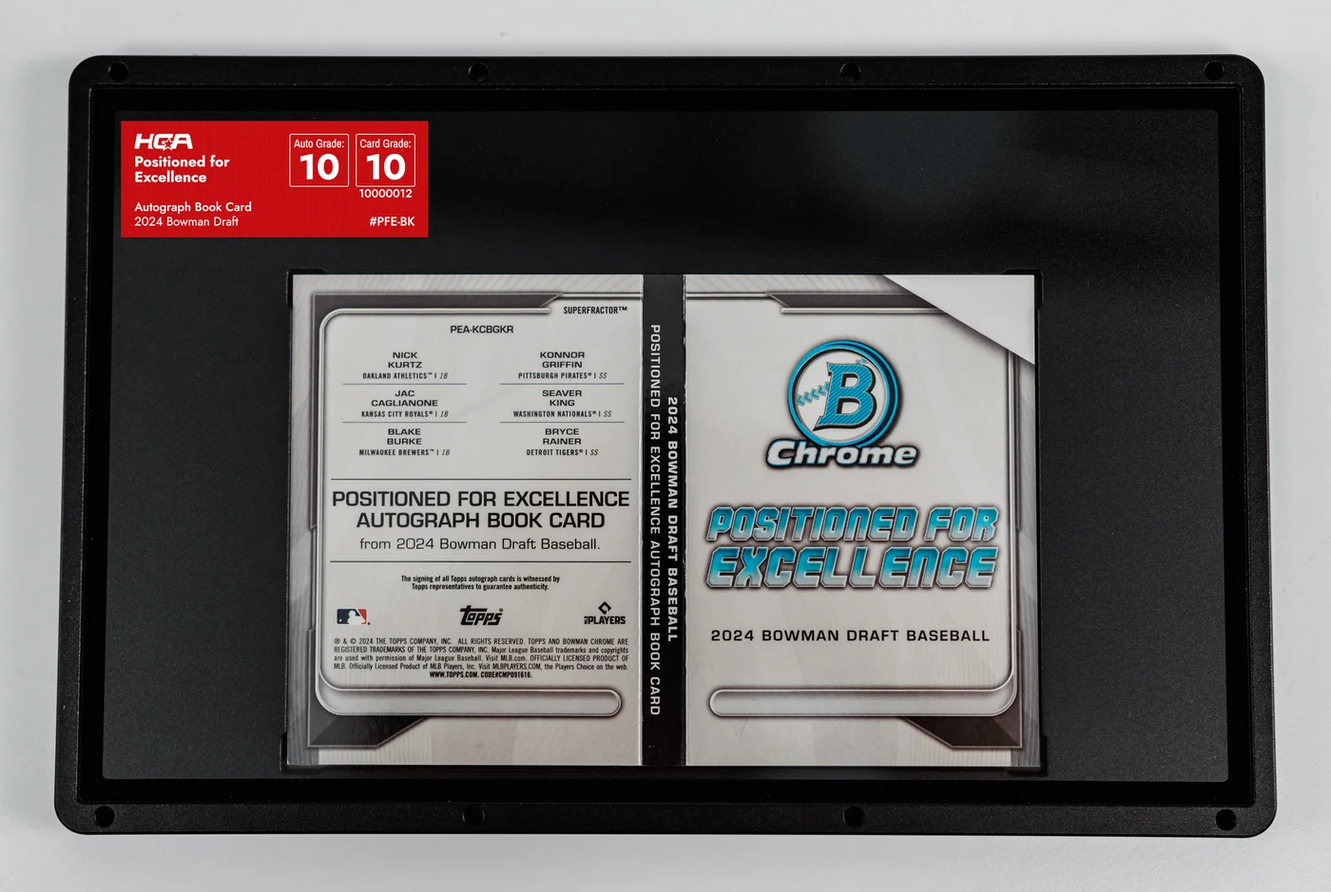
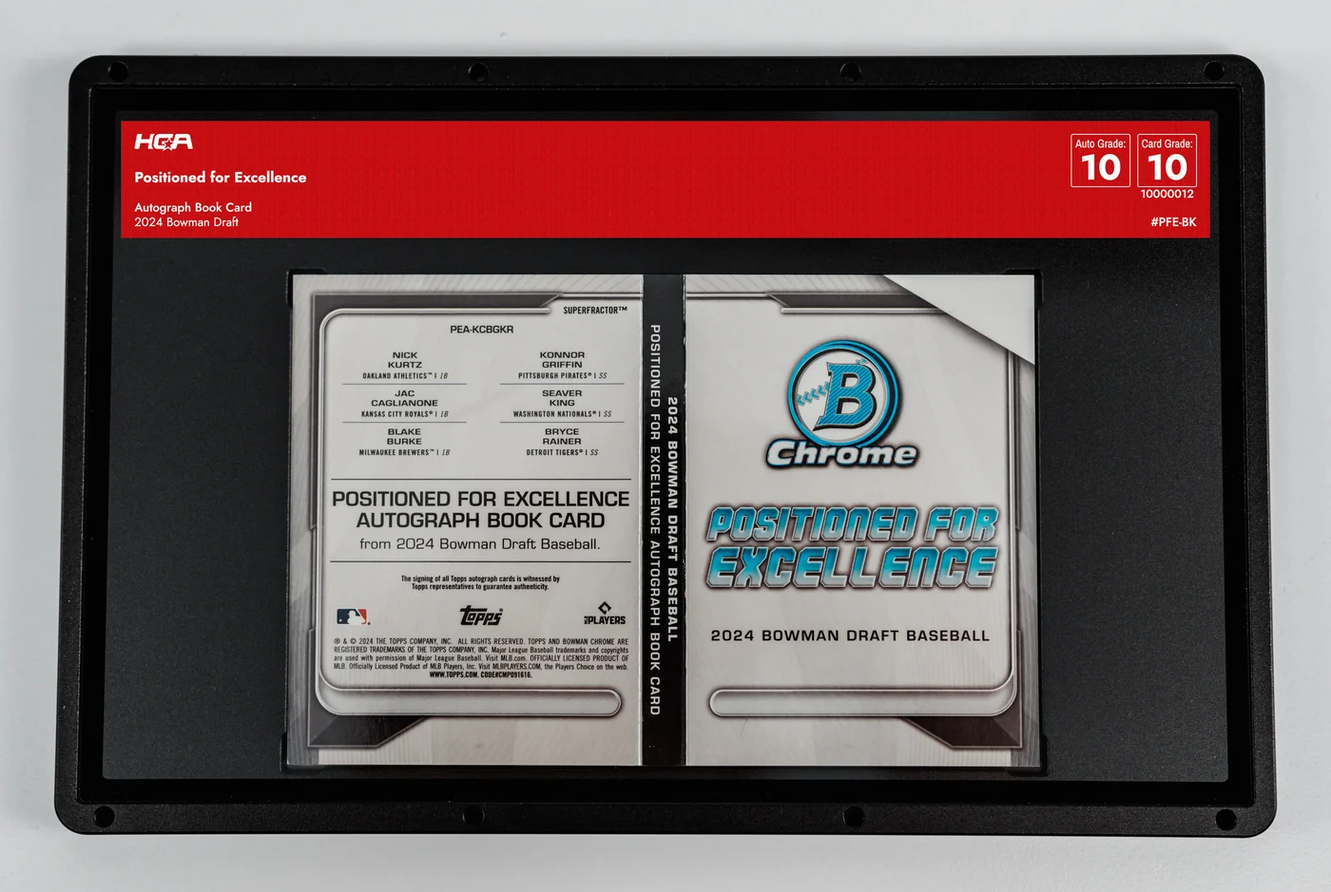
HGA product gallery: labels span the whole bay on every housing

Changed region(s): [[0.0921, 0.1235, 0.9214, 0.278]]

diff --git a/hga-site/h/shop-a.html b/hga-site/h/shop-a.html
@@ -128,7 +128,7 @@
           </div>
         </div>
         <figure class="sh-photo" data-photo hidden><img src="" alt="" width="720" height="1207"><video playsinline controls preload="none" hidden></video></figure>
-        <div class="sh-thumbs" role="group" aria-label="Product images"><button type="button" class="sh-th on" data-g="3d" data-kind="3d" aria-label="3D view: The slab in 3D. Drag to spin it." aria-pressed="true"><img src="./slabs/ohtani/360.webp" alt="" loading="lazy" width="72" height="72"><span class="sh-th-badge">360°</span></button><button type="button" class="sh-th" data-g="sizes" data-kind="image" data-src="./assets/photo/sizes-lineup.webp?v=08e3dc46" data-alt="Any card, any size: HGA Glass for standard, booklet, trifold and oversized cards" aria-label="All sizes: Any card, any size: HGA Glass for standard, booklet, trifold and oversized cards" aria-pressed="false"><img src="./assets/photo/sizes-lineup.webp?v=08e3dc46" alt="" loading="lazy" width="72" height="72"><span class="sh-th-badge">Sizes</span></button><button type="button" class="sh-th" data-g="standard" data-kind="image" data-src="./assets/photo/casing-standard.webp?v=f19f3479" data-alt="A standard card in HGA Glass" aria-label="Standard: A standard card in HGA Glass" aria-pressed="false"><img src="./assets/photo/casing-standard.webp?v=f19f3479" alt="" loading="lazy" width="72" height="72"></button><button type="button" class="sh-th" data-g="booklet" data-kind="image" data-src="./assets/photo/casing-booklet.webp?v=3142f45d" data-alt="A booklet card in HGA Glass" aria-label="Booklet: A booklet card in HGA Glass" aria-pressed="false"><img src="./assets/photo/casing-booklet.webp?v=3142f45d" alt="" loading="lazy" width="72" height="72"></button><button type="button" class="sh-th" data-g="trifold" data-kind="image" data-src="./assets/photo/casing-trifold.webp?v=c5311a39" data-alt="A trifold booklet in HGA Glass" aria-label="Trifold: A trifold booklet in HGA Glass" aria-pressed="false"><img src="./assets/photo/casing-trifold.webp?v=c5311a39" alt="" loading="lazy" width="72" height="72"></button><button type="button" class="sh-th" data-g="oversized" data-kind="image" data-src="./assets/photo/casing-oversized.webp?v=ed156623" data-alt="The oversized HGA Glass housing" aria-label="Oversized: The oversized HGA Glass housing" aria-pressed="false"><img src="./assets/photo/casing-oversized.webp?v=ed156623" alt="" loading="lazy" width="72" height="72"></button><button type="button" class="sh-th" data-g="poly" data-kind="image" data-src="./slabs/items/13966/clear_case/720.webp" data-alt="A standard card in HGA Poly" aria-label="Poly: A standard card in HGA Poly" aria-pressed="false"><img src="./slabs/items/13966/clear_case/720.webp" alt="" loading="lazy" width="72" height="72"></button></div>
+        <div class="sh-thumbs" role="group" aria-label="Product images"><button type="button" class="sh-th on" data-g="3d" data-kind="3d" aria-label="3D view: The slab in 3D. Drag to spin it." aria-pressed="true"><img src="./slabs/ohtani/360.webp" alt="" loading="lazy" width="72" height="72"><span class="sh-th-badge">360°</span></button><button type="button" class="sh-th" data-g="sizes" data-kind="image" data-src="./assets/photo/sizes-lineup.webp?v=08e3dc46" data-alt="Any card, any size: HGA Glass for standard, booklet, trifold and oversized cards" aria-label="All sizes: Any card, any size: HGA Glass for standard, booklet, trifold and oversized cards" aria-pressed="false"><img src="./assets/photo/sizes-lineup.webp?v=08e3dc46" alt="" loading="lazy" width="72" height="72"><span class="sh-th-badge">Sizes</span></button><button type="button" class="sh-th" data-g="standard" data-kind="image" data-src="./assets/photo/casing-standard.webp?v=841a0df5" data-alt="A standard card in HGA Glass" aria-label="Standard: A standard card in HGA Glass" aria-pressed="false"><img src="./assets/photo/casing-standard.webp?v=841a0df5" alt="" loading="lazy" width="72" height="72"></button><button type="button" class="sh-th" data-g="booklet" data-kind="image" data-src="./assets/photo/casing-booklet.webp?v=6119ba0e" data-alt="A booklet card in HGA Glass" aria-label="Booklet: A booklet card in HGA Glass" aria-pressed="false"><img src="./assets/photo/casing-booklet.webp?v=6119ba0e" alt="" loading="lazy" width="72" height="72"></button><button type="button" class="sh-th" data-g="trifold" data-kind="image" data-src="./assets/photo/casing-trifold.webp?v=7de9c197" data-alt="A trifold booklet in HGA Glass" aria-label="Trifold: A trifold booklet in HGA Glass" aria-pressed="false"><img src="./assets/photo/casing-trifold.webp?v=7de9c197" alt="" loading="lazy" width="72" height="72"></button><button type="button" class="sh-th" data-g="oversized" data-kind="image" data-src="./assets/photo/casing-oversized.webp?v=e52f296b" data-alt="The oversized HGA Glass housing" aria-label="Oversized: The oversized HGA Glass housing" aria-pressed="false"><img src="./assets/photo/casing-oversized.webp?v=e52f296b" alt="" loading="lazy" width="72" height="72"></button><button type="button" class="sh-th" data-g="poly" data-kind="image" data-src="./slabs/items/13966/clear_case/720.webp" data-alt="A standard card in HGA Poly" aria-label="Poly: A standard card in HGA Poly" aria-pressed="false"><img src="./slabs/items/13966/clear_case/720.webp" alt="" loading="lazy" width="72" height="72"></button></div>
         <ul class="sh-proof" aria-label="What you get">
           <li><svg class="ico"><use href="#i-eye"/></svg>From your box to your grade reveal</li>
           <li><svg class="ico"><use href="#i-clock"/></svg>Live in your portal, from delivery to the Reveal</li>

diff --git a/hga-site/h/shop-b.html b/hga-site/h/shop-b.html
@@ -128,7 +128,7 @@
           </div>
         </div>
         <figure class="sh-photo" data-photo hidden><img src="" alt="" width="720" height="1207"><video playsinline controls preload="none" hidden></video></figure>
-        <div class="sh-thumbs" role="group" aria-label="Product images"><button type="button" class="sh-th on" data-g="3d" data-kind="3d" aria-label="3D view: The slab in 3D. Drag to spin it." aria-pressed="true"><img src="./slabs/ohtani/360.webp" alt="" loading="lazy" width="72" height="72"><span class="sh-th-badge">360°</span></button><button type="button" class="sh-th" data-g="sizes" data-kind="image" data-src="./assets/photo/sizes-lineup.webp?v=08e3dc46" data-alt="Any card, any size: HGA Glass for standard, booklet, trifold and oversized cards" aria-label="All sizes: Any card, any size: HGA Glass for standard, booklet, trifold and oversized cards" aria-pressed="false"><img src="./assets/photo/sizes-lineup.webp?v=08e3dc46" alt="" loading="lazy" width="72" height="72"><span class="sh-th-badge">Sizes</span></button><button type="button" class="sh-th" data-g="standard" data-kind="image" data-src="./assets/photo/casing-standard.webp?v=f19f3479" data-alt="A standard card in HGA Glass" aria-label="Standard: A standard card in HGA Glass" aria-pressed="false"><img src="./assets/photo/casing-standard.webp?v=f19f3479" alt="" loading="lazy" width="72" height="72"></button><button type="button" class="sh-th" data-g="booklet" data-kind="image" data-src="./assets/photo/casing-booklet.webp?v=3142f45d" data-alt="A booklet card in HGA Glass" aria-label="Booklet: A booklet card in HGA Glass" aria-pressed="false"><img src="./assets/photo/casing-booklet.webp?v=3142f45d" alt="" loading="lazy" width="72" height="72"></button><button type="button" class="sh-th" data-g="trifold" data-kind="image" data-src="./assets/photo/casing-trifold.webp?v=c5311a39" data-alt="A trifold booklet in HGA Glass" aria-label="Trifold: A trifold booklet in HGA Glass" aria-pressed="false"><img src="./assets/photo/casing-trifold.webp?v=c5311a39" alt="" loading="lazy" width="72" height="72"></button><button type="button" class="sh-th" data-g="oversized" data-kind="image" data-src="./assets/photo/casing-oversized.webp?v=ed156623" data-alt="The oversized HGA Glass housing" aria-label="Oversized: The oversized HGA Glass housing" aria-pressed="false"><img src="./assets/photo/casing-oversized.webp?v=ed156623" alt="" loading="lazy" width="72" height="72"></button><button type="button" class="sh-th" data-g="poly" data-kind="image" data-src="./slabs/items/13966/clear_case/720.webp" data-alt="A standard card in HGA Poly" aria-label="Poly: A standard card in HGA Poly" aria-pressed="false"><img src="./slabs/items/13966/clear_case/720.webp" alt="" loading="lazy" width="72" height="72"></button></div>
+        <div class="sh-thumbs" role="group" aria-label="Product images"><button type="button" class="sh-th on" data-g="3d" data-kind="3d" aria-label="3D view: The slab in 3D. Drag to spin it." aria-pressed="true"><img src="./slabs/ohtani/360.webp" alt="" loading="lazy" width="72" height="72"><span class="sh-th-badge">360°</span></button><button type="button" class="sh-th" data-g="sizes" data-kind="image" data-src="./assets/photo/sizes-lineup.webp?v=08e3dc46" data-alt="Any card, any size: HGA Glass for standard, booklet, trifold and oversized cards" aria-label="All sizes: Any card, any size: HGA Glass for standard, booklet, trifold and oversized cards" aria-pressed="false"><img src="./assets/photo/sizes-lineup.webp?v=08e3dc46" alt="" loading="lazy" width="72" height="72"><span class="sh-th-badge">Sizes</span></button><button type="button" class="sh-th" data-g="standard" data-kind="image" data-src="./assets/photo/casing-standard.webp?v=841a0df5" data-alt="A standard card in HGA Glass" aria-label="Standard: A standard card in HGA Glass" aria-pressed="false"><img src="./assets/photo/casing-standard.webp?v=841a0df5" alt="" loading="lazy" width="72" height="72"></button><button type="button" class="sh-th" data-g="booklet" data-kind="image" data-src="./assets/photo/casing-booklet.webp?v=6119ba0e" data-alt="A booklet card in HGA Glass" aria-label="Booklet: A booklet card in HGA Glass" aria-pressed="false"><img src="./assets/photo/casing-booklet.webp?v=6119ba0e" alt="" loading="lazy" width="72" height="72"></button><button type="button" class="sh-th" data-g="trifold" data-kind="image" data-src="./assets/photo/casing-trifold.webp?v=7de9c197" data-alt="A trifold booklet in HGA Glass" aria-label="Trifold: A trifold booklet in HGA Glass" aria-pressed="false"><img src="./assets/photo/casing-trifold.webp?v=7de9c197" alt="" loading="lazy" width="72" height="72"></button><button type="button" class="sh-th" data-g="oversized" data-kind="image" data-src="./assets/photo/casing-oversized.webp?v=e52f296b" data-alt="The oversized HGA Glass housing" aria-label="Oversized: The oversized HGA Glass housing" aria-pressed="false"><img src="./assets/photo/casing-oversized.webp?v=e52f296b" alt="" loading="lazy" width="72" height="72"></button><button type="button" class="sh-th" data-g="poly" data-kind="image" data-src="./slabs/items/13966/clear_case/720.webp" data-alt="A standard card in HGA Poly" aria-label="Poly: A standard card in HGA Poly" aria-pressed="false"><img src="./slabs/items/13966/clear_case/720.webp" alt="" loading="lazy" width="72" height="72"></button></div>
         <ul class="sh-proof" aria-label="What you get">
           <li><svg class="ico"><use href="#i-eye"/></svg>From your box to your grade reveal</li>
           <li><svg class="ico"><use href="#i-clock"/></svg>Live in your portal, from delivery to the Reveal</li>

diff --git a/hga-site/h/shop-c.html b/hga-site/h/shop-c.html
@@ -129,7 +129,7 @@
           </div>
         </div>
         <figure class="sh-photo" data-photo hidden><img src="" alt="" width="720" height="1207"><video playsinline controls preload="none" hidden></video></figure>
-        <div class="sh-thumbs" role="group" aria-label="Product images"><button type="button" class="sh-th on" data-g="3d" data-kind="3d" aria-label="3D view: The slab in 3D. Drag to spin it." aria-pressed="true"><img src="./slabs/ohtani/360.webp" alt="" loading="lazy" width="72" height="72"><span class="sh-th-badge">360°</span></button><button type="button" class="sh-th" data-g="sizes" data-kind="image" data-src="./assets/photo/sizes-lineup.webp?v=08e3dc46" data-alt="Any card, any size: HGA Glass for standard, booklet, trifold and oversized cards" aria-label="All sizes: Any card, any size: HGA Glass for standard, booklet, trifold and oversized cards" aria-pressed="false"><img src="./assets/photo/sizes-lineup.webp?v=08e3dc46" alt="" loading="lazy" width="72" height="72"><span class="sh-th-badge">Sizes</span></button><button type="button" class="sh-th" data-g="standard" data-kind="image" data-src="./assets/photo/casing-standard.webp?v=f19f3479" data-alt="A standard card in HGA Glass" aria-label="Standard: A standard card in HGA Glass" aria-pressed="false"><img src="./assets/photo/casing-standard.webp?v=f19f3479" alt="" loading="lazy" width="72" height="72"></button><button type="button" class="sh-th" data-g="booklet" data-kind="image" data-src="./assets/photo/casing-booklet.webp?v=3142f45d" data-alt="A booklet card in HGA Glass" aria-label="Booklet: A booklet card in HGA Glass" aria-pressed="false"><img src="./assets/photo/casing-booklet.webp?v=3142f45d" alt="" loading="lazy" width="72" height="72"></button><button type="button" class="sh-th" data-g="trifold" data-kind="image" data-src="./assets/photo/casing-trifold.webp?v=c5311a39" data-alt="A trifold booklet in HGA Glass" aria-label="Trifold: A trifold booklet in HGA Glass" aria-pressed="false"><img src="./assets/photo/casing-trifold.webp?v=c5311a39" alt="" loading="lazy" width="72" height="72"></button><button type="button" class="sh-th" data-g="oversized" data-kind="image" data-src="./assets/photo/casing-oversized.webp?v=ed156623" data-alt="The oversized HGA Glass housing" aria-label="Oversized: The oversized HGA Glass housing" aria-pressed="false"><img src="./assets/photo/casing-oversized.webp?v=ed156623" alt="" loading="lazy" width="72" height="72"></button><button type="button" class="sh-th" data-g="poly" data-kind="image" data-src="./slabs/items/13966/clear_case/720.webp" data-alt="A standard card in HGA Poly" aria-label="Poly: A standard card in HGA Poly" aria-pressed="false"><img src="./slabs/items/13966/clear_case/720.webp" alt="" loading="lazy" width="72" height="72"></button></div>
+        <div class="sh-thumbs" role="group" aria-label="Product images"><button type="button" class="sh-th on" data-g="3d" data-kind="3d" aria-label="3D view: The slab in 3D. Drag to spin it." aria-pressed="true"><img src="./slabs/ohtani/360.webp" alt="" loading="lazy" width="72" height="72"><span class="sh-th-badge">360°</span></button><button type="button" class="sh-th" data-g="sizes" data-kind="image" data-src="./assets/photo/sizes-lineup.webp?v=08e3dc46" data-alt="Any card, any size: HGA Glass for standard, booklet, trifold and oversized cards" aria-label="All sizes: Any card, any size: HGA Glass for standard, booklet, trifold and oversized cards" aria-pressed="false"><img src="./assets/photo/sizes-lineup.webp?v=08e3dc46" alt="" loading="lazy" width="72" height="72"><span class="sh-th-badge">Sizes</span></button><button type="button" class="sh-th" data-g="standard" data-kind="image" data-src="./assets/photo/casing-standard.webp?v=841a0df5" data-alt="A standard card in HGA Glass" aria-label="Standard: A standard card in HGA Glass" aria-pressed="false"><img src="./assets/photo/casing-standard.webp?v=841a0df5" alt="" loading="lazy" width="72" height="72"></button><button type="button" class="sh-th" data-g="booklet" data-kind="image" data-src="./assets/photo/casing-booklet.webp?v=6119ba0e" data-alt="A booklet card in HGA Glass" aria-label="Booklet: A booklet card in HGA Glass" aria-pressed="false"><img src="./assets/photo/casing-booklet.webp?v=6119ba0e" alt="" loading="lazy" width="72" height="72"></button><button type="button" class="sh-th" data-g="trifold" data-kind="image" data-src="./assets/photo/casing-trifold.webp?v=7de9c197" data-alt="A trifold booklet in HGA Glass" aria-label="Trifold: A trifold booklet in HGA Glass" aria-pressed="false"><img src="./assets/photo/casing-trifold.webp?v=7de9c197" alt="" loading="lazy" width="72" height="72"></button><button type="button" class="sh-th" data-g="oversized" data-kind="image" data-src="./assets/photo/casing-oversized.webp?v=e52f296b" data-alt="The oversized HGA Glass housing" aria-label="Oversized: The oversized HGA Glass housing" aria-pressed="false"><img src="./assets/photo/casing-oversized.webp?v=e52f296b" alt="" loading="lazy" width="72" height="72"></button><button type="button" class="sh-th" data-g="poly" data-kind="image" data-src="./slabs/items/13966/clear_case/720.webp" data-alt="A standard card in HGA Poly" aria-label="Poly: A standard card in HGA Poly" aria-pressed="false"><img src="./slabs/items/13966/clear_case/720.webp" alt="" loading="lazy" width="72" height="72"></button></div>
         <ul class="sh-proof" aria-label="What you get">
           <li><svg class="ico"><use href="#i-eye"/></svg>From your box to your grade reveal</li>
           <li><svg class="ico"><use href="#i-clock"/></svg>Live in your portal, from delivery to the Reveal</li>

diff --git a/hga-site/h/shop.html b/hga-site/h/shop.html
@@ -129,7 +129,7 @@
           </div>
         </div>
         <figure class="sh-photo" data-photo hidden><img src="" alt="" width="720" height="1207"><video playsinline controls preload="none" hidden></video></figure>
-        <div class="sh-thumbs" role="group" aria-label="Product images"><button type="button" class="sh-th on" data-g="3d" data-kind="3d" aria-label="3D view: The slab in 3D. Drag to spin it." aria-pressed="true"><img src="./slabs/ohtani/360.webp" alt="" loading="lazy" width="72" height="72"><span class="sh-th-badge">360°</span></button><button type="button" class="sh-th" data-g="sizes" data-kind="image" data-src="./assets/photo/sizes-lineup.webp?v=08e3dc46" data-alt="Any card, any size: HGA Glass for standard, booklet, trifold and oversized cards" aria-label="All sizes: Any card, any size: HGA Glass for standard, booklet, trifold and oversized cards" aria-pressed="false"><img src="./assets/photo/sizes-lineup.webp?v=08e3dc46" alt="" loading="lazy" width="72" height="72"><span class="sh-th-badge">Sizes</span></button><button type="button" class="sh-th" data-g="standard" data-kind="image" data-src="./assets/photo/casing-standard.webp?v=f19f3479" data-alt="A standard card in HGA Glass" aria-label="Standard: A standard card in HGA Glass" aria-pressed="false"><img src="./assets/photo/casing-standard.webp?v=f19f3479" alt="" loading="lazy" width="72" height="72"></button><button type="button" class="sh-th" data-g="booklet" data-kind="image" data-src="./assets/photo/casing-booklet.webp?v=3142f45d" data-alt="A booklet card in HGA Glass" aria-label="Booklet: A booklet card in HGA Glass" aria-pressed="false"><img src="./assets/photo/casing-booklet.webp?v=3142f45d" alt="" loading="lazy" width="72" height="72"></button><button type="button" class="sh-th" data-g="trifold" data-kind="image" data-src="./assets/photo/casing-trifold.webp?v=c5311a39" data-alt="A trifold booklet in HGA Glass" aria-label="Trifold: A trifold booklet in HGA Glass" aria-pressed="false"><img src="./assets/photo/casing-trifold.webp?v=c5311a39" alt="" loading="lazy" width="72" height="72"></button><button type="button" class="sh-th" data-g="oversized" data-kind="image" data-src="./assets/photo/casing-oversized.webp?v=ed156623" data-alt="The oversized HGA Glass housing" aria-label="Oversized: The oversized HGA Glass housing" aria-pressed="false"><img src="./assets/photo/casing-oversized.webp?v=ed156623" alt="" loading="lazy" width="72" height="72"></button><button type="button" class="sh-th" data-g="poly" data-kind="image" data-src="./slabs/items/13966/clear_case/720.webp" data-alt="A standard card in HGA Poly" aria-label="Poly: A standard card in HGA Poly" aria-pressed="false"><img src="./slabs/items/13966/clear_case/720.webp" alt="" loading="lazy" width="72" height="72"></button></div>
+        <div class="sh-thumbs" role="group" aria-label="Product images"><button type="button" class="sh-th on" data-g="3d" data-kind="3d" aria-label="3D view: The slab in 3D. Drag to spin it." aria-pressed="true"><img src="./slabs/ohtani/360.webp" alt="" loading="lazy" width="72" height="72"><span class="sh-th-badge">360°</span></button><button type="button" class="sh-th" data-g="sizes" data-kind="image" data-src="./assets/photo/sizes-lineup.webp?v=08e3dc46" data-alt="Any card, any size: HGA Glass for standard, booklet, trifold and oversized cards" aria-label="All sizes: Any card, any size: HGA Glass for standard, booklet, trifold and oversized cards" aria-pressed="false"><img src="./assets/photo/sizes-lineup.webp?v=08e3dc46" alt="" loading="lazy" width="72" height="72"><span class="sh-th-badge">Sizes</span></button><button type="button" class="sh-th" data-g="standard" data-kind="image" data-src="./assets/photo/casing-standard.webp?v=841a0df5" data-alt="A standard card in HGA Glass" aria-label="Standard: A standard card in HGA Glass" aria-pressed="false"><img src="./assets/photo/casing-standard.webp?v=841a0df5" alt="" loading="lazy" width="72" height="72"></button><button type="button" class="sh-th" data-g="booklet" data-kind="image" data-src="./assets/photo/casing-booklet.webp?v=6119ba0e" data-alt="A booklet card in HGA Glass" aria-label="Booklet: A booklet card in HGA Glass" aria-pressed="false"><img src="./assets/photo/casing-booklet.webp?v=6119ba0e" alt="" loading="lazy" width="72" height="72"></button><button type="button" class="sh-th" data-g="trifold" data-kind="image" data-src="./assets/photo/casing-trifold.webp?v=7de9c197" data-alt="A trifold booklet in HGA Glass" aria-label="Trifold: A trifold booklet in HGA Glass" aria-pressed="false"><img src="./assets/photo/casing-trifold.webp?v=7de9c197" alt="" loading="lazy" width="72" height="72"></button><button type="button" class="sh-th" data-g="oversized" data-kind="image" data-src="./assets/photo/casing-oversized.webp?v=e52f296b" data-alt="The oversized HGA Glass housing" aria-label="Oversized: The oversized HGA Glass housing" aria-pressed="false"><img src="./assets/photo/casing-oversized.webp?v=e52f296b" alt="" loading="lazy" width="72" height="72"></button><button type="button" class="sh-th" data-g="poly" data-kind="image" data-src="./slabs/items/13966/clear_case/720.webp" data-alt="A standard card in HGA Poly" aria-label="Poly: A standard card in HGA Poly" aria-pressed="false"><img src="./slabs/items/13966/clear_case/720.webp" alt="" loading="lazy" width="72" height="72"></button></div>
         <ul class="sh-proof" aria-label="What you get">
           <li><svg class="ico"><use href="#i-eye"/></svg>From your box to your grade reveal</li>
           <li><svg class="ico"><use href="#i-clock"/></svg>Live in your portal, from delivery to the Reveal</li>

diff --git a/hga-site/i/shop-a.html b/hga-site/i/shop-a.html
@@ -128,7 +128,7 @@
           </div>
         </div>
         <figure class="sh-photo" data-photo hidden><img src="" alt="" width="720" height="1207"><video playsinline controls preload="none" hidden></video></figure>
-        <div class="sh-thumbs" role="group" aria-label="Product images"><button type="button" class="sh-th on" data-g="3d" data-kind="3d" aria-label="3D view: The slab in 3D. Drag to spin it." aria-pressed="true"><img src="./slabs/ohtani/360.webp" alt="" loading="lazy" width="72" height="72"><span class="sh-th-badge">360°</span></button><button type="button" class="sh-th" data-g="sizes" data-kind="image" data-src="./assets/photo/sizes-lineup.webp?v=08e3dc46" data-alt="Any card, any size: HGA Glass for standard, booklet, trifold and oversized cards" aria-label="All sizes: Any card, any size: HGA Glass for standard, booklet, trifold and oversized cards" aria-pressed="false"><img src="./assets/photo/sizes-lineup.webp?v=08e3dc46" alt="" loading="lazy" width="72" height="72"><span class="sh-th-badge">Sizes</span></button><button type="button" class="sh-th" data-g="standard" data-kind="image" data-src="./assets/photo/casing-standard.webp?v=f19f3479" data-alt="A standard card in HGA Glass" aria-label="Standard: A standard card in HGA Glass" aria-pressed="false"><img src="./assets/photo/casing-standard.webp?v=f19f3479" alt="" loading="lazy" width="72" height="72"></button><button type="button" class="sh-th" data-g="booklet" data-kind="image" data-src="./assets/photo/casing-booklet.webp?v=3142f45d" data-alt="A booklet card in HGA Glass" aria-label="Booklet: A booklet card in HGA Glass" aria-pressed="false"><img src="./assets/photo/casing-booklet.webp?v=3142f45d" alt="" loading="lazy" width="72" height="72"></button><button type="button" class="sh-th" data-g="trifold" data-kind="image" data-src="./assets/photo/casing-trifold.webp?v=c5311a39" data-alt="A trifold booklet in HGA Glass" aria-label="Trifold: A trifold booklet in HGA Glass" aria-pressed="false"><img src="./assets/photo/casing-trifold.webp?v=c5311a39" alt="" loading="lazy" width="72" height="72"></button><button type="button" class="sh-th" data-g="oversized" data-kind="image" data-src="./assets/photo/casing-oversized.webp?v=ed156623" data-alt="The oversized HGA Glass housing" aria-label="Oversized: The oversized HGA Glass housing" aria-pressed="false"><img src="./assets/photo/casing-oversized.webp?v=ed156623" alt="" loading="lazy" width="72" height="72"></button><button type="button" class="sh-th" data-g="poly" data-kind="image" data-src="./slabs/items/13966/clear_case/720.webp" data-alt="A standard card in HGA Poly" aria-label="Poly: A standard card in HGA Poly" aria-pressed="false"><img src="./slabs/items/13966/clear_case/720.webp" alt="" loading="lazy" width="72" height="72"></button></div>
+        <div class="sh-thumbs" role="group" aria-label="Product images"><button type="button" class="sh-th on" data-g="3d" data-kind="3d" aria-label="3D view: The slab in 3D. Drag to spin it." aria-pressed="true"><img src="./slabs/ohtani/360.webp" alt="" loading="lazy" width="72" height="72"><span class="sh-th-badge">360°</span></button><button type="button" class="sh-th" data-g="sizes" data-kind="image" data-src="./assets/photo/sizes-lineup.webp?v=08e3dc46" data-alt="Any card, any size: HGA Glass for standard, booklet, trifold and oversized cards" aria-label="All sizes: Any card, any size: HGA Glass for standard, booklet, trifold and oversized cards" aria-pressed="false"><img src="./assets/photo/sizes-lineup.webp?v=08e3dc46" alt="" loading="lazy" width="72" height="72"><span class="sh-th-badge">Sizes</span></button><button type="button" class="sh-th" data-g="standard" data-kind="image" data-src="./assets/photo/casing-standard.webp?v=841a0df5" data-alt="A standard card in HGA Glass" aria-label="Standard: A standard card in HGA Glass" aria-pressed="false"><img src="./assets/photo/casing-standard.webp?v=841a0df5" alt="" loading="lazy" width="72" height="72"></button><button type="button" class="sh-th" data-g="booklet" data-kind="image" data-src="./assets/photo/casing-booklet.webp?v=6119ba0e" data-alt="A booklet card in HGA Glass" aria-label="Booklet: A booklet card in HGA Glass" aria-pressed="false"><img src="./assets/photo/casing-booklet.webp?v=6119ba0e" alt="" loading="lazy" width="72" height="72"></button><button type="button" class="sh-th" data-g="trifold" data-kind="image" data-src="./assets/photo/casing-trifold.webp?v=7de9c197" data-alt="A trifold booklet in HGA Glass" aria-label="Trifold: A trifold booklet in HGA Glass" aria-pressed="false"><img src="./assets/photo/casing-trifold.webp?v=7de9c197" alt="" loading="lazy" width="72" height="72"></button><button type="button" class="sh-th" data-g="oversized" data-kind="image" data-src="./assets/photo/casing-oversized.webp?v=e52f296b" data-alt="The oversized HGA Glass housing" aria-label="Oversized: The oversized HGA Glass housing" aria-pressed="false"><img src="./assets/photo/casing-oversized.webp?v=e52f296b" alt="" loading="lazy" width="72" height="72"></button><button type="button" class="sh-th" data-g="poly" data-kind="image" data-src="./slabs/items/13966/clear_case/720.webp" data-alt="A standard card in HGA Poly" aria-label="Poly: A standard card in HGA Poly" aria-pressed="false"><img src="./slabs/items/13966/clear_case/720.webp" alt="" loading="lazy" width="72" height="72"></button></div>
         <ul class="sh-proof" aria-label="What you get">
           <li><svg class="ico"><use href="#i-eye"/></svg>From your box to your grade reveal</li>
           <li><svg class="ico"><use href="#i-clock"/></svg>Live in your portal, from delivery to the Reveal</li>

diff --git a/hga-site/i/shop-b.html b/hga-site/i/shop-b.html
@@ -128,7 +128,7 @@
           </div>
         </div>
         <figure class="sh-photo" data-photo hidden><img src="" alt="" width="720" height="1207"><video playsinline controls preload="none" hidden></video></figure>
-        <div class="sh-thumbs" role="group" aria-label="Product images"><button type="button" class="sh-th on" data-g="3d" data-kind="3d" aria-label="3D view: The slab in 3D. Drag to spin it." aria-pressed="true"><img src="./slabs/ohtani/360.webp" alt="" loading="lazy" width="72" height="72"><span class="sh-th-badge">360°</span></button><button type="button" class="sh-th" data-g="sizes" data-kind="image" data-src="./assets/photo/sizes-lineup.webp?v=08e3dc46" data-alt="Any card, any size: HGA Glass for standard, booklet, trifold and oversized cards" aria-label="All sizes: Any card, any size: HGA Glass for standard, booklet, trifold and oversized cards" aria-pressed="false"><img src="./assets/photo/sizes-lineup.webp?v=08e3dc46" alt="" loading="lazy" width="72" height="72"><span class="sh-th-badge">Sizes</span></button><button type="button" class="sh-th" data-g="standard" data-kind="image" data-src="./assets/photo/casing-standard.webp?v=f19f3479" data-alt="A standard card in HGA Glass" aria-label="Standard: A standard card in HGA Glass" aria-pressed="false"><img src="./assets/photo/casing-standard.webp?v=f19f3479" alt="" loading="lazy" width="72" height="72"></button><button type="button" class="sh-th" data-g="booklet" data-kind="image" data-src="./assets/photo/casing-booklet.webp?v=3142f45d" data-alt="A booklet card in HGA Glass" aria-label="Booklet: A booklet card in HGA Glass" aria-pressed="false"><img src="./assets/photo/casing-booklet.webp?v=3142f45d" alt="" loading="lazy" width="72" height="72"></button><button type="button" class="sh-th" data-g="trifold" data-kind="image" data-src="./assets/photo/casing-trifold.webp?v=c5311a39" data-alt="A trifold booklet in HGA Glass" aria-label="Trifold: A trifold booklet in HGA Glass" aria-pressed="false"><img src="./assets/photo/casing-trifold.webp?v=c5311a39" alt="" loading="lazy" width="72" height="72"></button><button type="button" class="sh-th" data-g="oversized" data-kind="image" data-src="./assets/photo/casing-oversized.webp?v=ed156623" data-alt="The oversized HGA Glass housing" aria-label="Oversized: The oversized HGA Glass housing" aria-pressed="false"><img src="./assets/photo/casing-oversized.webp?v=ed156623" alt="" loading="lazy" width="72" height="72"></button><button type="button" class="sh-th" data-g="poly" data-kind="image" data-src="./slabs/items/13966/clear_case/720.webp" data-alt="A standard card in HGA Poly" aria-label="Poly: A standard card in HGA Poly" aria-pressed="false"><img src="./slabs/items/13966/clear_case/720.webp" alt="" loading="lazy" width="72" height="72"></button></div>
+        <div class="sh-thumbs" role="group" aria-label="Product images"><button type="button" class="sh-th on" data-g="3d" data-kind="3d" aria-label="3D view: The slab in 3D. Drag to spin it." aria-pressed="true"><img src="./slabs/ohtani/360.webp" alt="" loading="lazy" width="72" height="72"><span class="sh-th-badge">360°</span></button><button type="button" class="sh-th" data-g="sizes" data-kind="image" data-src="./assets/photo/sizes-lineup.webp?v=08e3dc46" data-alt="Any card, any size: HGA Glass for standard, booklet, trifold and oversized cards" aria-label="All sizes: Any card, any size: HGA Glass for standard, booklet, trifold and oversized cards" aria-pressed="false"><img src="./assets/photo/sizes-lineup.webp?v=08e3dc46" alt="" loading="lazy" width="72" height="72"><span class="sh-th-badge">Sizes</span></button><button type="button" class="sh-th" data-g="standard" data-kind="image" data-src="./assets/photo/casing-standard.webp?v=841a0df5" data-alt="A standard card in HGA Glass" aria-label="Standard: A standard card in HGA Glass" aria-pressed="false"><img src="./assets/photo/casing-standard.webp?v=841a0df5" alt="" loading="lazy" width="72" height="72"></button><button type="button" class="sh-th" data-g="booklet" data-kind="image" data-src="./assets/photo/casing-booklet.webp?v=6119ba0e" data-alt="A booklet card in HGA Glass" aria-label="Booklet: A booklet card in HGA Glass" aria-pressed="false"><img src="./assets/photo/casing-booklet.webp?v=6119ba0e" alt="" loading="lazy" width="72" height="72"></button><button type="button" class="sh-th" data-g="trifold" data-kind="image" data-src="./assets/photo/casing-trifold.webp?v=7de9c197" data-alt="A trifold booklet in HGA Glass" aria-label="Trifold: A trifold booklet in HGA Glass" aria-pressed="false"><img src="./assets/photo/casing-trifold.webp?v=7de9c197" alt="" loading="lazy" width="72" height="72"></button><button type="button" class="sh-th" data-g="oversized" data-kind="image" data-src="./assets/photo/casing-oversized.webp?v=e52f296b" data-alt="The oversized HGA Glass housing" aria-label="Oversized: The oversized HGA Glass housing" aria-pressed="false"><img src="./assets/photo/casing-oversized.webp?v=e52f296b" alt="" loading="lazy" width="72" height="72"></button><button type="button" class="sh-th" data-g="poly" data-kind="image" data-src="./slabs/items/13966/clear_case/720.webp" data-alt="A standard card in HGA Poly" aria-label="Poly: A standard card in HGA Poly" aria-pressed="false"><img src="./slabs/items/13966/clear_case/720.webp" alt="" loading="lazy" width="72" height="72"></button></div>
         <ul class="sh-proof" aria-label="What you get">
           <li><svg class="ico"><use href="#i-eye"/></svg>From your box to your grade reveal</li>
           <li><svg class="ico"><use href="#i-clock"/></svg>Live in your portal, from delivery to the Reveal</li>

diff --git a/hga-site/i/shop-c.html b/hga-site/i/shop-c.html
@@ -129,7 +129,7 @@
           </div>
         </div>
         <figure class="sh-photo" data-photo hidden><img src="" alt="" width="720" height="1207"><video playsinline controls preload="none" hidden></video></figure>
-        <div class="sh-thumbs" role="group" aria-label="Product images"><button type="button" class="sh-th on" data-g="3d" data-kind="3d" aria-label="3D view: The slab in 3D. Drag to spin it." aria-pressed="true"><img src="./slabs/ohtani/360.webp" alt="" loading="lazy" width="72" height="72"><span class="sh-th-badge">360°</span></button><button type="button" class="sh-th" data-g="sizes" data-kind="image" data-src="./assets/photo/sizes-lineup.webp?v=08e3dc46" data-alt="Any card, any size: HGA Glass for standard, booklet, trifold and oversized cards" aria-label="All sizes: Any card, any size: HGA Glass for standard, booklet, trifold and oversized cards" aria-pressed="false"><img src="./assets/photo/sizes-lineup.webp?v=08e3dc46" alt="" loading="lazy" width="72" height="72"><span class="sh-th-badge">Sizes</span></button><button type="button" class="sh-th" data-g="standard" data-kind="image" data-src="./assets/photo/casing-standard.webp?v=f19f3479" data-alt="A standard card in HGA Glass" aria-label="Standard: A standard card in HGA Glass" aria-pressed="false"><img src="./assets/photo/casing-standard.webp?v=f19f3479" alt="" loading="lazy" width="72" height="72"></button><button type="button" class="sh-th" data-g="booklet" data-kind="image" data-src="./assets/photo/casing-booklet.webp?v=3142f45d" data-alt="A booklet card in HGA Glass" aria-label="Booklet: A booklet card in HGA Glass" aria-pressed="false"><img src="./assets/photo/casing-booklet.webp?v=3142f45d" alt="" loading="lazy" width="72" height="72"></button><button type="button" class="sh-th" data-g="trifold" data-kind="image" data-src="./assets/photo/casing-trifold.webp?v=c5311a39" data-alt="A trifold booklet in HGA Glass" aria-label="Trifold: A trifold booklet in HGA Glass" aria-pressed="false"><img src="./assets/photo/casing-trifold.webp?v=c5311a39" alt="" loading="lazy" width="72" height="72"></button><button type="button" class="sh-th" data-g="oversized" data-kind="image" data-src="./assets/photo/casing-oversized.webp?v=ed156623" data-alt="The oversized HGA Glass housing" aria-label="Oversized: The oversized HGA Glass housing" aria-pressed="false"><img src="./assets/photo/casing-oversized.webp?v=ed156623" alt="" loading="lazy" width="72" height="72"></button><button type="button" class="sh-th" data-g="poly" data-kind="image" data-src="./slabs/items/13966/clear_case/720.webp" data-alt="A standard card in HGA Poly" aria-label="Poly: A standard card in HGA Poly" aria-pressed="false"><img src="./slabs/items/13966/clear_case/720.webp" alt="" loading="lazy" width="72" height="72"></button></div>
+        <div class="sh-thumbs" role="group" aria-label="Product images"><button type="button" class="sh-th on" data-g="3d" data-kind="3d" aria-label="3D view: The slab in 3D. Drag to spin it." aria-pressed="true"><img src="./slabs/ohtani/360.webp" alt="" loading="lazy" width="72" height="72"><span class="sh-th-badge">360°</span></button><button type="button" class="sh-th" data-g="sizes" data-kind="image" data-src="./assets/photo/sizes-lineup.webp?v=08e3dc46" data-alt="Any card, any size: HGA Glass for standard, booklet, trifold and oversized cards" aria-label="All sizes: Any card, any size: HGA Glass for standard, booklet, trifold and oversized cards" aria-pressed="false"><img src="./assets/photo/sizes-lineup.webp?v=08e3dc46" alt="" loading="lazy" width="72" height="72"><span class="sh-th-badge">Sizes</span></button><button type="button" class="sh-th" data-g="standard" data-kind="image" data-src="./assets/photo/casing-standard.webp?v=841a0df5" data-alt="A standard card in HGA Glass" aria-label="Standard: A standard card in HGA Glass" aria-pressed="false"><img src="./assets/photo/casing-standard.webp?v=841a0df5" alt="" loading="lazy" width="72" height="72"></button><button type="button" class="sh-th" data-g="booklet" data-kind="image" data-src="./assets/photo/casing-booklet.webp?v=6119ba0e" data-alt="A booklet card in HGA Glass" aria-label="Booklet: A booklet card in HGA Glass" aria-pressed="false"><img src="./assets/photo/casing-booklet.webp?v=6119ba0e" alt="" loading="lazy" width="72" height="72"></button><button type="button" class="sh-th" data-g="trifold" data-kind="image" data-src="./assets/photo/casing-trifold.webp?v=7de9c197" data-alt="A trifold booklet in HGA Glass" aria-label="Trifold: A trifold booklet in HGA Glass" aria-pressed="false"><img src="./assets/photo/casing-trifold.webp?v=7de9c197" alt="" loading="lazy" width="72" height="72"></button><button type="button" class="sh-th" data-g="oversized" data-kind="image" data-src="./assets/photo/casing-oversized.webp?v=e52f296b" data-alt="The oversized HGA Glass housing" aria-label="Oversized: The oversized HGA Glass housing" aria-pressed="false"><img src="./assets/photo/casing-oversized.webp?v=e52f296b" alt="" loading="lazy" width="72" height="72"></button><button type="button" class="sh-th" data-g="poly" data-kind="image" data-src="./slabs/items/13966/clear_case/720.webp" data-alt="A standard card in HGA Poly" aria-label="Poly: A standard card in HGA Poly" aria-pressed="false"><img src="./slabs/items/13966/clear_case/720.webp" alt="" loading="lazy" width="72" height="72"></button></div>
         <ul class="sh-proof" aria-label="What you get">
           <li><svg class="ico"><use href="#i-eye"/></svg>From your box to your grade reveal</li>
           <li><svg class="ico"><use href="#i-clock"/></svg>Live in your portal, from delivery to the Reveal</li>

diff --git a/hga-site/i/shop.html b/hga-site/i/shop.html
@@ -129,7 +129,7 @@
           </div>
         </div>
         <figure class="sh-photo" data-photo hidden><img src="" alt="" width="720" height="1207"><video playsinline controls preload="none" hidden></video></figure>
-        <div class="sh-thumbs" role="group" aria-label="Product images"><button type="button" class="sh-th on" data-g="3d" data-kind="3d" aria-label="3D view: The slab in 3D. Drag to spin it." aria-pressed="true"><img src="./slabs/ohtani/360.webp" alt="" loading="lazy" width="72" height="72"><span class="sh-th-badge">360°</span></button><button type="button" class="sh-th" data-g="sizes" data-kind="image" data-src="./assets/photo/sizes-lineup.webp?v=08e3dc46" data-alt="Any card, any size: HGA Glass for standard, booklet, trifold and oversized cards" aria-label="All sizes: Any card, any size: HGA Glass for standard, booklet, trifold and oversized cards" aria-pressed="false"><img src="./assets/photo/sizes-lineup.webp?v=08e3dc46" alt="" loading="lazy" width="72" height="72"><span class="sh-th-badge">Sizes</span></button><button type="button" class="sh-th" data-g="standard" data-kind="image" data-src="./assets/photo/casing-standard.webp?v=f19f3479" data-alt="A standard card in HGA Glass" aria-label="Standard: A standard card in HGA Glass" aria-pressed="false"><img src="./assets/photo/casing-standard.webp?v=f19f3479" alt="" loading="lazy" width="72" height="72"></button><button type="button" class="sh-th" data-g="booklet" data-kind="image" data-src="./assets/photo/casing-booklet.webp?v=3142f45d" data-alt="A booklet card in HGA Glass" aria-label="Booklet: A booklet card in HGA Glass" aria-pressed="false"><img src="./assets/photo/casing-booklet.webp?v=3142f45d" alt="" loading="lazy" width="72" height="72"></button><button type="button" class="sh-th" data-g="trifold" data-kind="image" data-src="./assets/photo/casing-trifold.webp?v=c5311a39" data-alt="A trifold booklet in HGA Glass" aria-label="Trifold: A trifold booklet in HGA Glass" aria-pressed="false"><img src="./assets/photo/casing-trifold.webp?v=c5311a39" alt="" loading="lazy" width="72" height="72"></button><button type="button" class="sh-th" data-g="oversized" data-kind="image" data-src="./assets/photo/casing-oversized.webp?v=ed156623" data-alt="The oversized HGA Glass housing" aria-label="Oversized: The oversized HGA Glass housing" aria-pressed="false"><img src="./assets/photo/casing-oversized.webp?v=ed156623" alt="" loading="lazy" width="72" height="72"></button><button type="button" class="sh-th" data-g="poly" data-kind="image" data-src="./slabs/items/13966/clear_case/720.webp" data-alt="A standard card in HGA Poly" aria-label="Poly: A standard card in HGA Poly" aria-pressed="false"><img src="./slabs/items/13966/clear_case/720.webp" alt="" loading="lazy" width="72" height="72"></button></div>
+        <div class="sh-thumbs" role="group" aria-label="Product images"><button type="button" class="sh-th on" data-g="3d" data-kind="3d" aria-label="3D view: The slab in 3D. Drag to spin it." aria-pressed="true"><img src="./slabs/ohtani/360.webp" alt="" loading="lazy" width="72" height="72"><span class="sh-th-badge">360°</span></button><button type="button" class="sh-th" data-g="sizes" data-kind="image" data-src="./assets/photo/sizes-lineup.webp?v=08e3dc46" data-alt="Any card, any size: HGA Glass for standard, booklet, trifold and oversized cards" aria-label="All sizes: Any card, any size: HGA Glass for standard, booklet, trifold and oversized cards" aria-pressed="false"><img src="./assets/photo/sizes-lineup.webp?v=08e3dc46" alt="" loading="lazy" width="72" height="72"><span class="sh-th-badge">Sizes</span></button><button type="button" class="sh-th" data-g="standard" data-kind="image" data-src="./assets/photo/casing-standard.webp?v=841a0df5" data-alt="A standard card in HGA Glass" aria-label="Standard: A standard card in HGA Glass" aria-pressed="false"><img src="./assets/photo/casing-standard.webp?v=841a0df5" alt="" loading="lazy" width="72" height="72"></button><button type="button" class="sh-th" data-g="booklet" data-kind="image" data-src="./assets/photo/casing-booklet.webp?v=6119ba0e" data-alt="A booklet card in HGA Glass" aria-label="Booklet: A booklet card in HGA Glass" aria-pressed="false"><img src="./assets/photo/casing-booklet.webp?v=6119ba0e" alt="" loading="lazy" width="72" height="72"></button><button type="button" class="sh-th" data-g="trifold" data-kind="image" data-src="./assets/photo/casing-trifold.webp?v=7de9c197" data-alt="A trifold booklet in HGA Glass" aria-label="Trifold: A trifold booklet in HGA Glass" aria-pressed="false"><img src="./assets/photo/casing-trifold.webp?v=7de9c197" alt="" loading="lazy" width="72" height="72"></button><button type="button" class="sh-th" data-g="oversized" data-kind="image" data-src="./assets/photo/casing-oversized.webp?v=e52f296b" data-alt="The oversized HGA Glass housing" aria-label="Oversized: The oversized HGA Glass housing" aria-pressed="false"><img src="./assets/photo/casing-oversized.webp?v=e52f296b" alt="" loading="lazy" width="72" height="72"></button><button type="button" class="sh-th" data-g="poly" data-kind="image" data-src="./slabs/items/13966/clear_case/720.webp" data-alt="A standard card in HGA Poly" aria-label="Poly: A standard card in HGA Poly" aria-pressed="false"><img src="./slabs/items/13966/clear_case/720.webp" alt="" loading="lazy" width="72" height="72"></button></div>
         <ul class="sh-proof" aria-label="What you get">
           <li><svg class="ico"><use href="#i-eye"/></svg>From your box to your grade reveal</li>
           <li><svg class="ico"><use href="#i-clock"/></svg>Live in your portal, from delivery to the Reveal</li>
